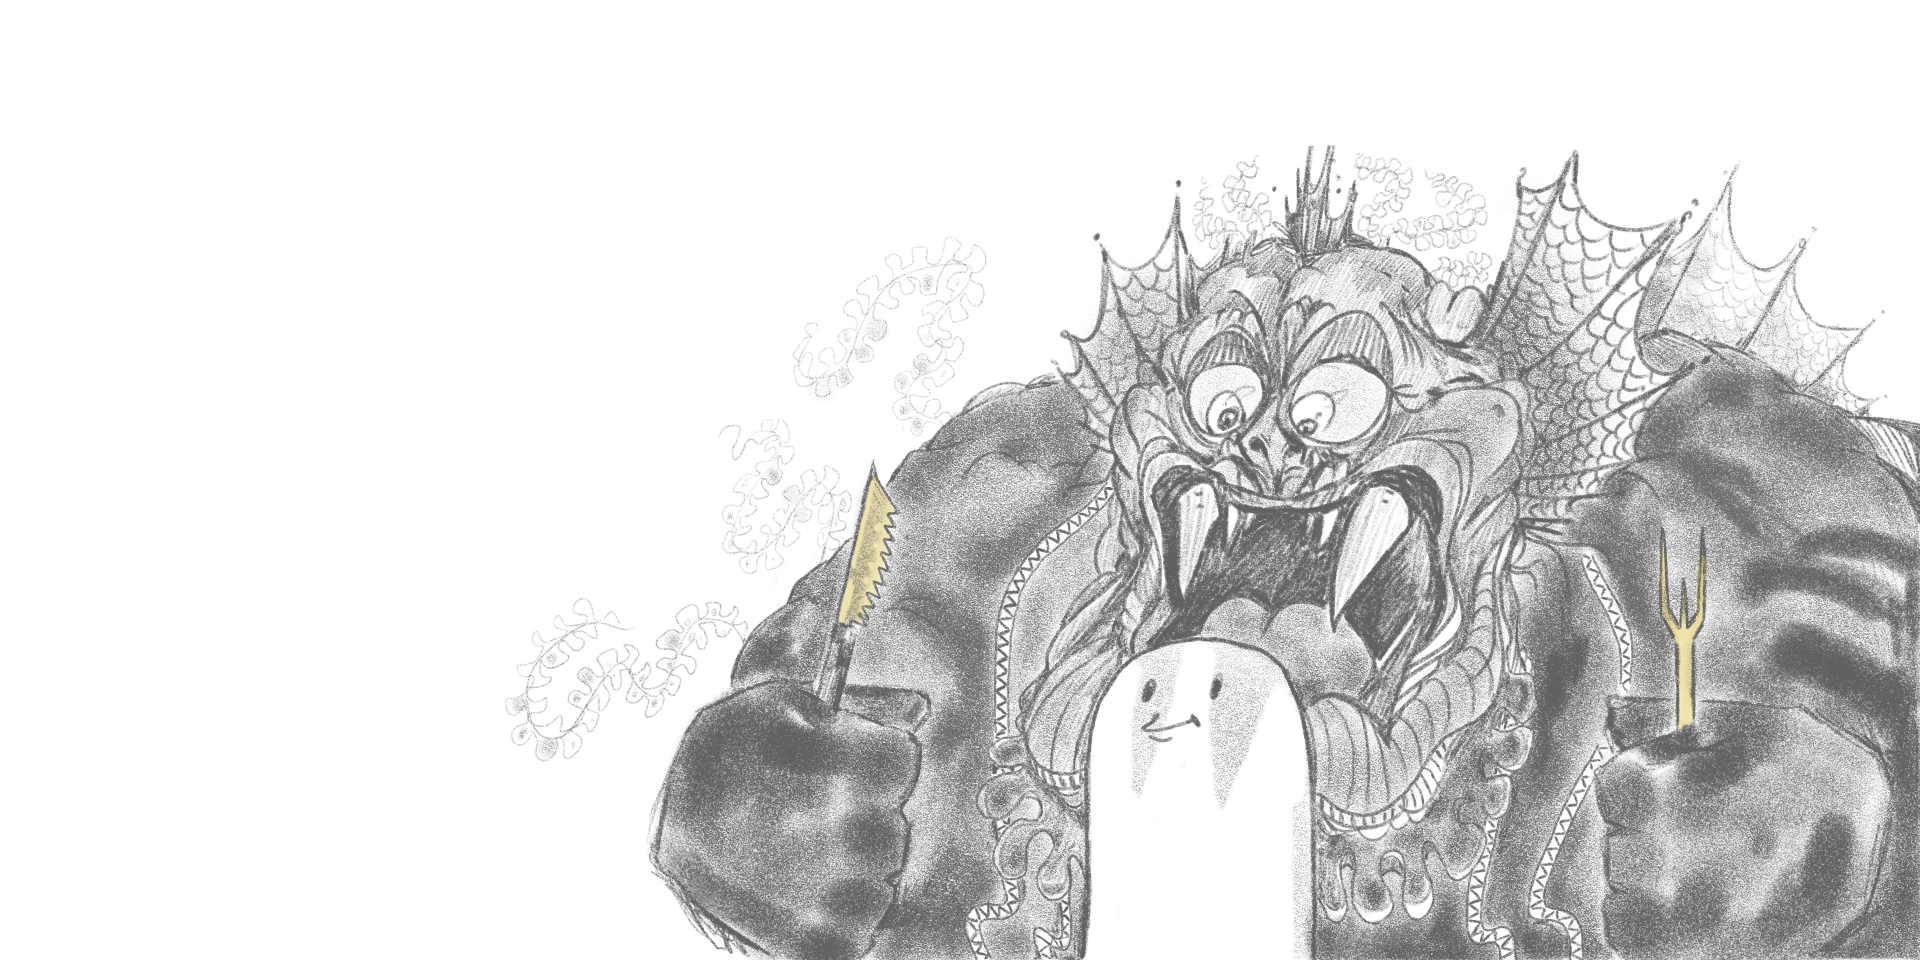
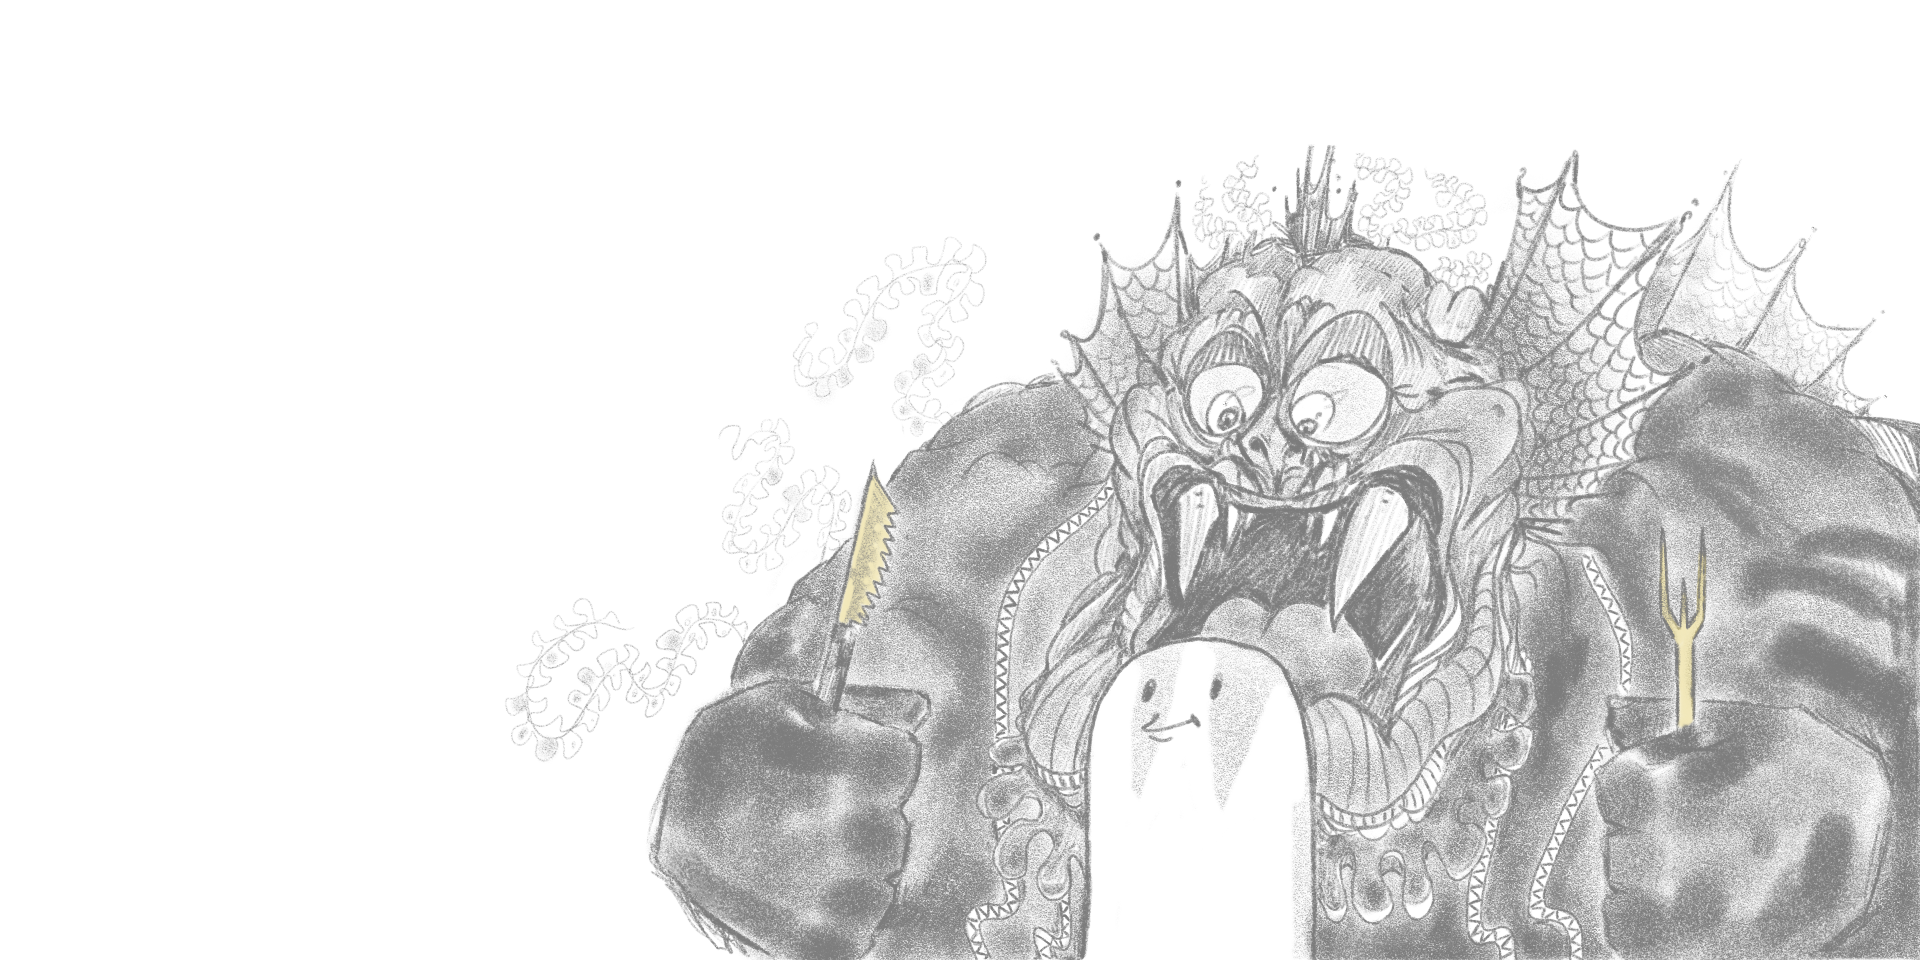
fixed some sizing and added basic gsap animation

diff --git a/src/components/CardsList.js b/src/components/CardsList.js
@@ -1,21 +1,36 @@
 import React, { Component } from "react";
 import styled from "styled-components";
-import { media } from '../Sizing';
-import bean from '../images/bean2.jpg';
+import { media } from '../helpers/Sizing';
+import { fadeCards } from '../helpers/fadeIns';
+import bean from '../images/bean2.png';
 
 const MainContainer = styled.div`
   width: 100vw;
   height: 100vh;
-  background-image: url(${bean}), linear-gradient(#f5efef, #d6e0e6);
+  background-image: linear-gradient(#f5efef, #d6e0e6);
   background-size: cover;
-  background-repeat: no-repeat;
-  background-position: 77% 0%;
   display: flex;
   justify-content: center;
   align-items: flex-start;
   ${media.mid`
     justify-content: flex-start;
+  `};
+`;
+
+const BeanContainer = styled.div`
+  position: absolute;
+  top: 0px;
+  left: 0px;
+  width: 100vw;
+  height: 100vh;
+  background-image: url(${bean});
+  background-size: cover;
+  background-repeat: no-repeat;
+  background-position: 77% 0%;
+  opacity: 0.8;
+  ${media.mid`
     background-position: center;
+    opacity: 1;
   `};
 `;
 
@@ -23,9 +38,11 @@ const CardsContainer = styled.div`
   height: 500px;
   width: 500px;
   margin-top: 52px;
+  z-index: 100;
 `;
 
 const Card = styled.div`
+  opacity: 0;
   margin: 20px 40px;
   height: auto;
   background-color: #fcfcfc;
@@ -43,15 +60,20 @@ const Card = styled.div`
 `;
 
 class CardsList extends Component {
+
+  componentDidMount() {
+    fadeCards();
+  }
+
   render() {
     return (
       <MainContainer>
         <CardsContainer>
-          <Card>
+          <Card id="card-one">
             Hello, my name's Ralph and I'm a full-stack web developer, music
             producer, and lover of all things creative.
           </Card>
-          <Card>
+          <Card id="card-two">
             I'm primarily a MERN stack developer, currently working on{" "}
             <a href="https://frgt.io"> frgt.io</a>.<br/><br/> I have taught at{" "}
             <a href="https://www.lewagon.com"> Le Wagon</a>, and am currently
@@ -69,6 +91,7 @@ class CardsList extends Component {
             a look at CV.
           </Card>
         </CardsContainer>
+        <BeanContainer />
       </MainContainer>
     );
   }

diff --git a/src/components/Header.js b/src/components/Header.js
@@ -1,6 +1,6 @@
 import React from 'react';
 import styled from 'styled-components';
-import { media } from '../Sizing';
+import { media } from '../helpers/Sizing';
 
 const HeaderDiv = styled.div`
   width: 100vw;

diff --git a/src/helpers/fadeIns.js b/src/helpers/fadeIns.js
@@ -1,0 +1,6 @@
+import { TimelineMax } from "gsap";
+
+export function fadeCards() {
+  const tl = new TimelineMax();
+  tl.to("#card-one", 0.3, { opacity: 1, delay: 0.3 }).to("#card-two", 0.3, { opacity: 1 });
+}
